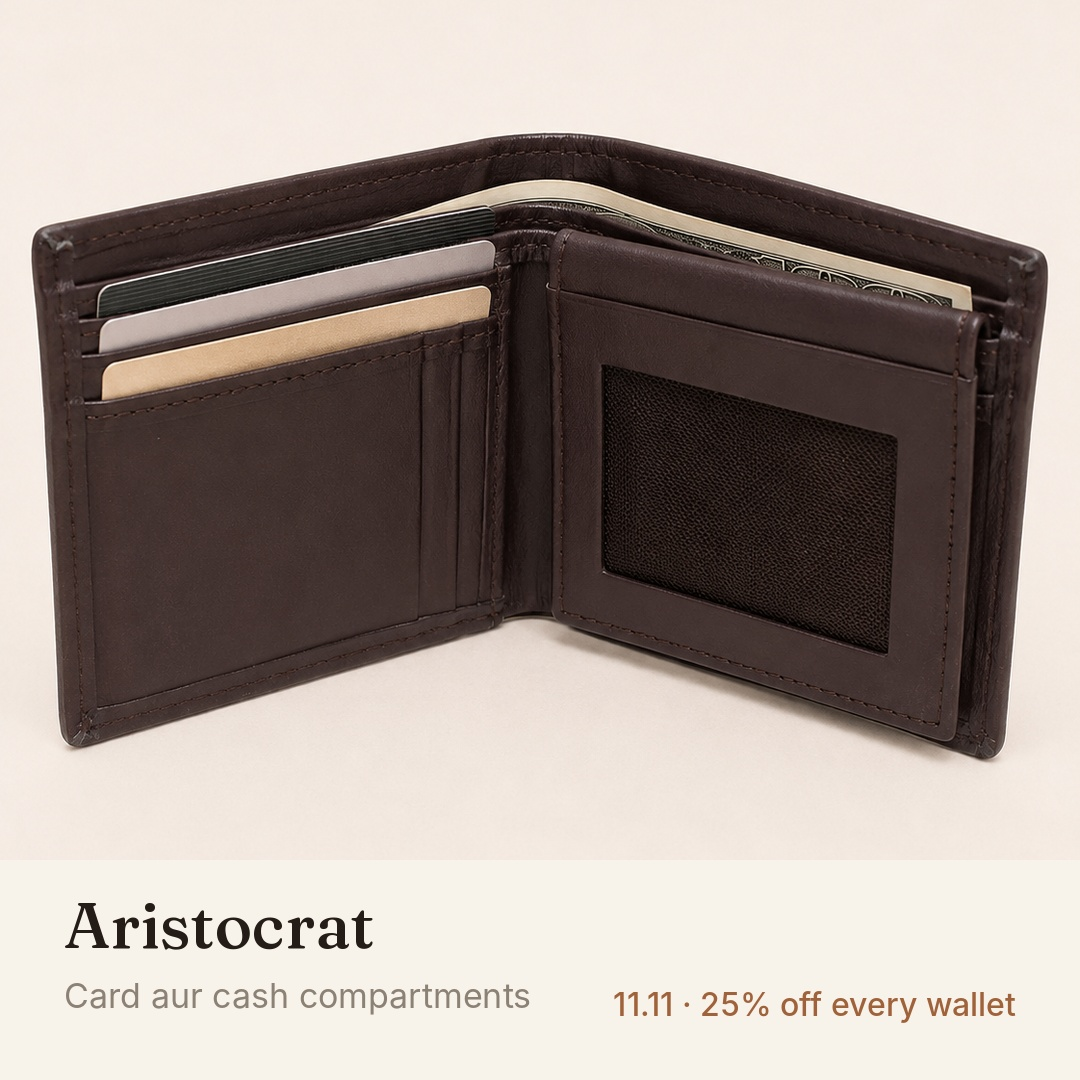
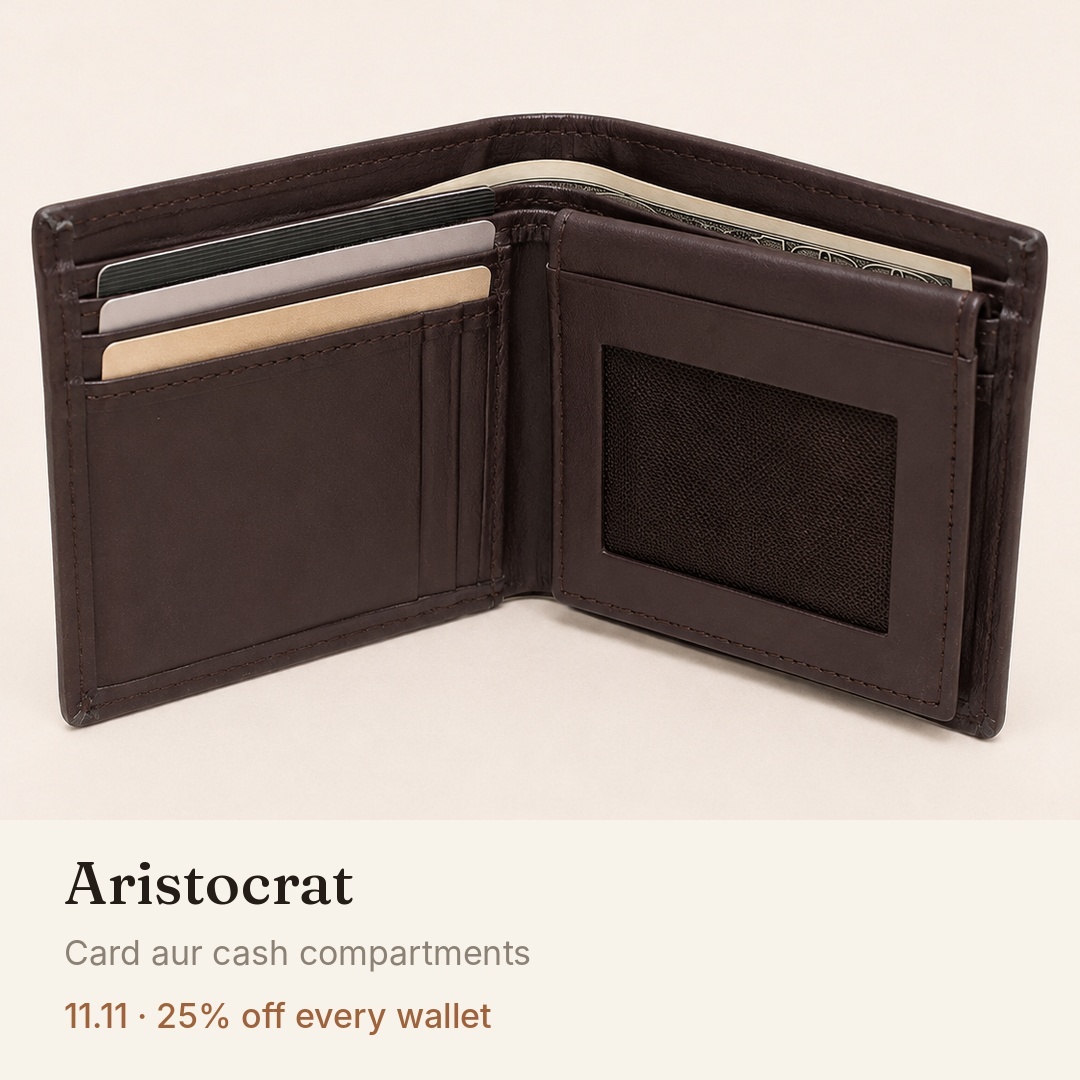
CMO: 11.11 renders v3 (CQRO fixes) + review frames
Claude-Session: https://claude.ai/code/session_01X7WEBUQ3xcYnDEHkHbDLbS

diff --git a/ops/marketing/creative/render.py b/ops/marketing/creative/render.py
@@ -147,14 +147,12 @@ def c3():
     for i, (n, h, s) in enumerate(cards, 1):
         fr = Image.new("RGB", (W, H), ALABASTER)
         # K1 shows third-party bank cards at the top: crop to the wallet body only
-        fr.paste(fit_cover(img(n), W, 860, 1.12 if n == "K1" else 1.0, yoff=1.0 if n == "K1" else 0.5), (0, 0))
+        fr.paste(fit_cover(img(n), W, 820, 1.12 if n == "K1" else 1.0, yoff=1.0 if n == "K1" else 0.5), (0, 0))
         d = ImageDraw.Draw(fr)
-        d.rectangle([0, 860, W, H], fill=ALABASTER)
-        d.text((64, 885), h, font=font(FR, 64), fill=ESPRESSO)
-        d.text((64, 975), s, font=font(IN_R, 34), fill=STONE)
-        tag = "11.11 · 25% off every wallet"
-        tw = d.textlength(tag, font=font(IN_M, 32))
-        d.text((W - 64 - tw, 985), tag, font=font(IN_M, 32), fill=COGNAC)
+        d.rectangle([0, 820, W, H], fill=ALABASTER)
+        d.text((64, 845), h, font=font(FR, 60), fill=ESPRESSO)
+        d.text((64, 932), s, font=font(IN_R, 34), fill=STONE)
+        d.text((64, 995), "11.11 · 25% off every wallet", font=font(IN_M, 34), fill=COGNAC)
         fr.save(os.path.join(OUT, f"C3_carousel_card{i}_1x1.jpg"), quality=95)
     # card 5: offer card
     fr = Image.new("RGB", (W, H), PARCHMENT)

diff --git a/ops/marketing/2026-11_1111_ad_creative.md b/ops/marketing/2026-11_1111_ad_creative.md
@@ -1,6 +1,6 @@
 # 11.11 ad creative pack (CMO, Omar Shafiq)
 
-**Status: READY FOR CQRO (v2, Nov 1 2026)** (L2 creative; any spend is L3 and belongs to the CRO). Prepared Nov 1 2026.
+**Status: READY FOR CQRO (v3, Nov 1 2026)** (L2 creative; any spend is L3 and belongs to the CRO). Prepared Nov 1 2026.
 **v2:** the Founder approved the pack, confirmed every Files photo is a real photograph (C-P closed), and decided the offer: **25% off every wallet, 15% off everything else, Nov 10 00:00 to Nov 12 23:59 PKT, automatic, no code, does not combine with any other code.** All four concepts are **rendered** (§9). Nothing has been uploaded, posted or spent. No creative shows a "was" price or a sale price. Shopify shows the reduced price itself.
 Asset URLs were read live from Shopify (read-only GraphQL, product media + Files) on Nov 1 2026.
 ~~Render blocker~~ resolved: `cdn.shopify.com` is reachable (CEO verified Nov 1). Renders are in `ops/marketing/creative/`.
@@ -194,10 +194,10 @@ Made with free tools only: **Pillow 12.3 (Python) for every frame and ffmpeg (li
 
 | File (`/home/user/KDV/ops/marketing/creative/`) | Concept | Spec | Images used |
 |---|---|---|---|
-| `C1_paanch_wallets_9x16_15s.mp4` | C1 motion | 1080×1920, 15.0 s, 30 fps, H.264 + silent AAC track | B1, R1, L2, **K4** (in place of K2), A3; end card B1 + BT1 |
+| `C1_paanch_wallets_9x16_15s.mp4` | C1 motion | 1080×1920, 15.0 s, 30 fps, H.264 + silent AAC track | B1, **R4** (v3, was R1), **L1** (v3, was L2), **K4** (in place of K2), A3; end card B1 + BT1 |
 | `C2_bastion_static_4x5.jpg` | C2 feed | 1080×1350 | B1, BT1 |
 | `C2_bastion_story_9x16.jpg` | C2 story | 1080×1920 | B1, BT1 |
-| `C3_carousel_card1_1x1.jpg` … `card5_1x1.jpg` | C3 carousel | 1080×1080 ×5 | L3, R3, A3, K1 (cropped to the wallet body), B2 |
+| `C3_carousel_card1_1x1.jpg` … `card5_1x1.jpg` | C3 carousel | 1080×1080 ×5 | L3, **R4** (v3, was R3), A3, K1 (cropped to the wallet body), **BT1** (v3, was B2) |
 | `C4_bumper_9x16_6s.mp4` | C4 story | 1080×1920, 6.0 s | L4, K4, A4 + end card |
 | `C4_bumper_4x5_6s.mp4` | C4 feed | 1080×1350, 6.0 s | L4, K4, A4 + end card |
 
@@ -208,3 +208,27 @@ Zero instances of: Karachi, "!", a code, a rupee price, a "was" price, a countdo
 ⚠ **For the CQRO:** the C1 Luke frame (L2) shows the corner of a payment card with a generic card-network mark. It is small and incidental, but flag it if Meta policy review is a concern. Music is not added (silent track); add a licence-clear track in the Meta editor if wanted.
 
 **READY FOR CQRO (v2)** (Omar Shafiq, CMO, Nov 1 2026)
+
+---
+
+## 10. v3: fixes for CQRO register CR-13 to CR-19 (Nov 1 2026)
+| CQRO item | Fix | Where to see it |
+|---|---|---|
+| C1 Luke frame showed large VISA / Mastercard marks (source L2) | Swapped to **L1** (Luke front, plain background, no cards) | `creative/frames/C1_t6.2s.jpg` |
+| C1 Razor frame showed a national ID card beside a debit card (source R1) | Swapped to **R4** (Razor leather close-up, no cards). Not cropped, swapped, as you preferred while the Founder is asked about those photos | `creative/frames/C1_t3.7s.jpg` |
+| C3 card 2 (Razor, source R3) showed the same ID card | Swapped to **R4**. The subline changed to "Premium leather, RFID smart wallet" so the label matches the close-up (both claims are sourced: R4 alt text and the Razor product title) | `creative/C3_carousel_card2_1x1.jpg` |
+| C3 card 5 (Bastion in hand, source B2) showed the ID card | Swapped to **BT1** (Bastion Tan front, no cards) | `creative/C3_carousel_card5_1x1.jpg` |
+| C3 card 5 lacked "No code needed" | Added under the dates line | same file |
+| C4 end card (both formats) lacked "No code needed" | Added under "10–12 November · Kordovan" | `creative/frames/C4_bumper_9x16_6s_t5.5s.jpg`, `creative/frames/C4_bumper_4x5_6s_t5.5s.jpg` |
+| Cards 1–4 tag read "11.11 · 25% off" | Now "11.11 · 25% off every wallet", on its own line below the subline, so it cannot collide with longer text | `creative/C3_carousel_card1_1x1.jpg` to `card4` |
+
+**Image sweep after the fixes (checked by eye on every frame):** no card-network mark, no ID card and no bank brand anywhere in C1, C2, C3 or C4. The cards still visible in L3 (Luke open) and A3 (Aristocrat open) are plain and unbranded. R1, R3, L2 and B2 are no longer used anywhere, and neither are the other Razor colour fronts (`KODO2AllBlack1`, `KODO2AllBrown1`), because they show the same white card.
+**Unchanged:** C2 (B1 + BT1, no cards) and every caption (approved by the CQRO).
+
+**Review frames for the CQRO** (no shell needed), in `/home/user/KDV/ops/marketing/creative/frames/`:
+- C1: `C1_t1.2s.jpg` (Bastion) · `C1_t3.7s.jpg` (Razor) · `C1_t6.2s.jpg` (Luke) · `C1_t8.7s.jpg` (KODO) · `C1_t11.2s.jpg` (Aristocrat) · `C1_t13.8s.jpg` (end card)
+- C4: `C4_bumper_9x16_6s_t0.7s.jpg` · `_t3.7s.jpg` · `_t5.5s.jpg` (end card), plus the same three for `C4_bumper_4x5_6s`
+
+Scene order in C1 is Bastion 0–2.5 s · Razor 2.5–5 · Luke 5–7.5 · KODO 7.5–10 · Aristocrat 10–12.5 · end card 12.5–15.
+
+**READY FOR CQRO (v3)** (Omar Shafiq, CMO, Nov 1 2026). Nothing posted, uploaded or spent.
